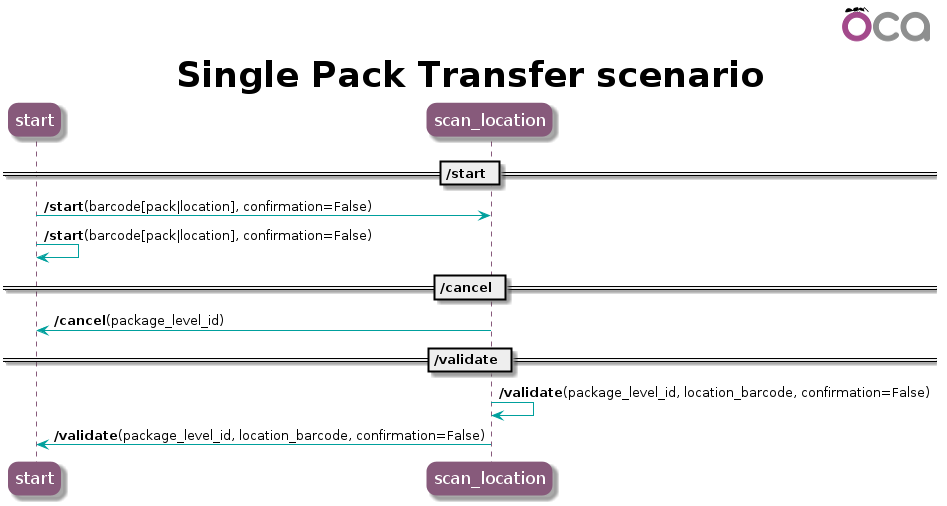
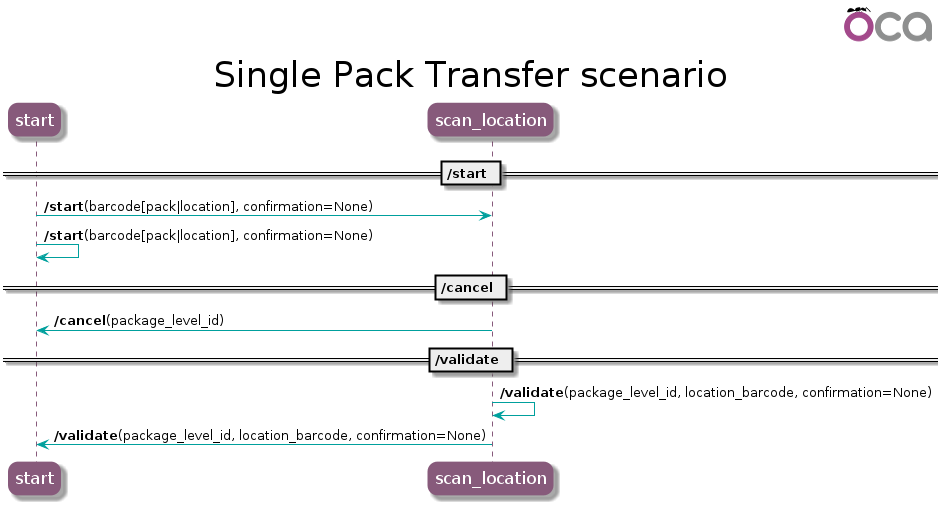
shopfloor: imp single_pack_transfer confirm

diff --git a/shopfloor/services/single_pack_transfer.py b/shopfloor/services/single_pack_transfer.py
@@ -41,9 +41,9 @@ class SinglePackTransfer(Component):
     def _response_for_start(self, message=None, popup=None):
         return self._response(next_state="start", message=message, popup=popup)
 
-    def _response_for_confirm_start(self, package_level, message=None):
+    def _response_for_confirm_start(self, package_level, message=None, barcode=""):
         data = self._data_after_package_scanned(package_level)
-        data["confirmation_required"] = True
+        data["confirmation_required"] = barcode
         return self._response(
             next_state="start",
             data=data,
@@ -51,7 +51,7 @@ class SinglePackTransfer(Component):
         )
 
     def _response_for_scan_location(
-        self, package_level, message=None, confirmation_required=False
+        self, package_level, message=None, confirmation_required=None
     ):
         data = self._data_after_package_scanned(package_level)
         data["confirmation_required"] = confirmation_required
@@ -61,7 +61,7 @@ class SinglePackTransfer(Component):
             message=message,
         )
 
-    def _scan_source(self, barcode, confirmation=False):
+    def _scan_source(self, barcode, confirmation=None):
         """Search a package"""
         search = self._actions_for("search")
         location = search.location_from_scan(barcode)
@@ -93,7 +93,7 @@ class SinglePackTransfer(Component):
 
         return (None, package)
 
-    def start(self, barcode, confirmation=False):
+    def start(self, barcode, confirmation=None):
         picking_types = self.picking_types
         message, package = self._scan_source(barcode, confirmation)
         if message:
@@ -164,9 +164,11 @@ class SinglePackTransfer(Component):
                 message=self.msg_store.no_putaway_destination_available()
             )
 
-        if package_level.is_done and not confirmation:
+        if package_level.is_done and confirmation != barcode:
             return self._response_for_confirm_start(
-                package_level, message=self.msg_store.already_running_ask_confirmation()
+                package_level,
+                message=self.msg_store.already_running_ask_confirmation(),
+                barcode=barcode,
             )
         if not package_level.is_done:
             package_level.is_done = True
@@ -205,7 +207,7 @@ class SinglePackTransfer(Component):
     def _is_move_state_valid(self, moves):
         return all(move.state != "cancel" for move in moves)
 
-    def validate(self, package_level_id, location_barcode, confirmation=False):
+    def validate(self, package_level_id, location_barcode, confirmation=None):
         """Validate the transfer"""
         search = self._actions_for("search")
 
@@ -235,12 +237,12 @@ class SinglePackTransfer(Component):
                 package_level, message=self.msg_store.dest_location_not_allowed()
             )
 
-        if not confirmation and self.is_dest_location_to_confirm(
+        if confirmation != location_barcode and self.is_dest_location_to_confirm(
             package_level.location_dest_id, scanned_location
         ):
             return self._response_for_scan_location(
                 package_level,
-                confirmation_required=True,
+                confirmation_required=location_barcode,
                 message=self.msg_store.confirm_location_changed(
                     package_level.location_dest_id, scanned_location
                 ),
@@ -309,7 +311,7 @@ class SinglePackTransferValidator(Component):
     def start(self):
         return {
             "barcode": {"type": "string", "nullable": False, "required": True},
-            "confirmation": {"type": "boolean", "required": False},
+            "confirmation": {"type": "string", "required": False},
         }
 
     def cancel(self):
@@ -321,7 +323,7 @@ class SinglePackTransferValidator(Component):
         return {
             "package_level_id": {"coerce": to_int, "required": True, "type": "integer"},
             "location_barcode": {"type": "string", "nullable": False, "required": True},
-            "confirmation": {"type": "boolean", "required": False},
+            "confirmation": {"type": "string", "required": False},
         }
 
 
@@ -380,7 +382,7 @@ class SinglePackTransferValidatorResponse(Component):
     def _schema_confirmation_required(self):
         return {
             "confirmation_required": {
-                "type": "boolean",
+                "type": "string",
                 "nullable": True,
                 "required": False,
             },

diff --git a/shopfloor/tests/test_single_pack_transfer.py b/shopfloor/tests/test_single_pack_transfer.py
@@ -124,7 +124,7 @@ class TestSinglePackTransfer(SinglePackTransferCommonBase):
             next_state="scan_location",
             data=dict(
                 self._response_package_level_data(package_level),
-                confirmation_required=False,
+                confirmation_required=None,
             ),
         )
 
@@ -201,7 +201,7 @@ class TestSinglePackTransfer(SinglePackTransferCommonBase):
             ),
             "picking": self.data.picking(package_level.picking_id),
             "products": self.data.products(self.product_a),
-            "confirmation_required": False,
+            "confirmation_required": None,
         }
 
         self.assert_response(response, next_state="scan_location", data=expected_data)
@@ -410,7 +410,7 @@ class TestSinglePackTransfer(SinglePackTransferCommonBase):
             },
             data=dict(
                 self._response_package_level_data(package_level),
-                confirmation_required=True,
+                confirmation_required=barcode,
             ),
         )
 
@@ -732,7 +732,7 @@ class TestSinglePackTransfer(SinglePackTransferCommonBase):
             message=message,
             data=dict(
                 self._response_package_level_data(package_level),
-                confirmation_required=True,
+                confirmation_required=sub_shelf2.barcode,
             ),
         )
 
@@ -767,7 +767,7 @@ class TestSinglePackTransfer(SinglePackTransferCommonBase):
                 "package_level_id": package_level.id,
                 "location_barcode": self.shelf2.barcode,
                 # acknowledge the change of destination
-                "confirmation": True,
+                "confirmation": self.shelf2.barcode,
             },
         )
 
@@ -1045,7 +1045,7 @@ class SinglePackTransferSpecialCase(SinglePackTransferCommonBase):
             next_state="scan_location",
             data=dict(
                 self.service._data_after_package_scanned(new_package_level),
-                confirmation_required=False,
+                confirmation_required=None,
             ),
         )
         self.assertRecordValues(